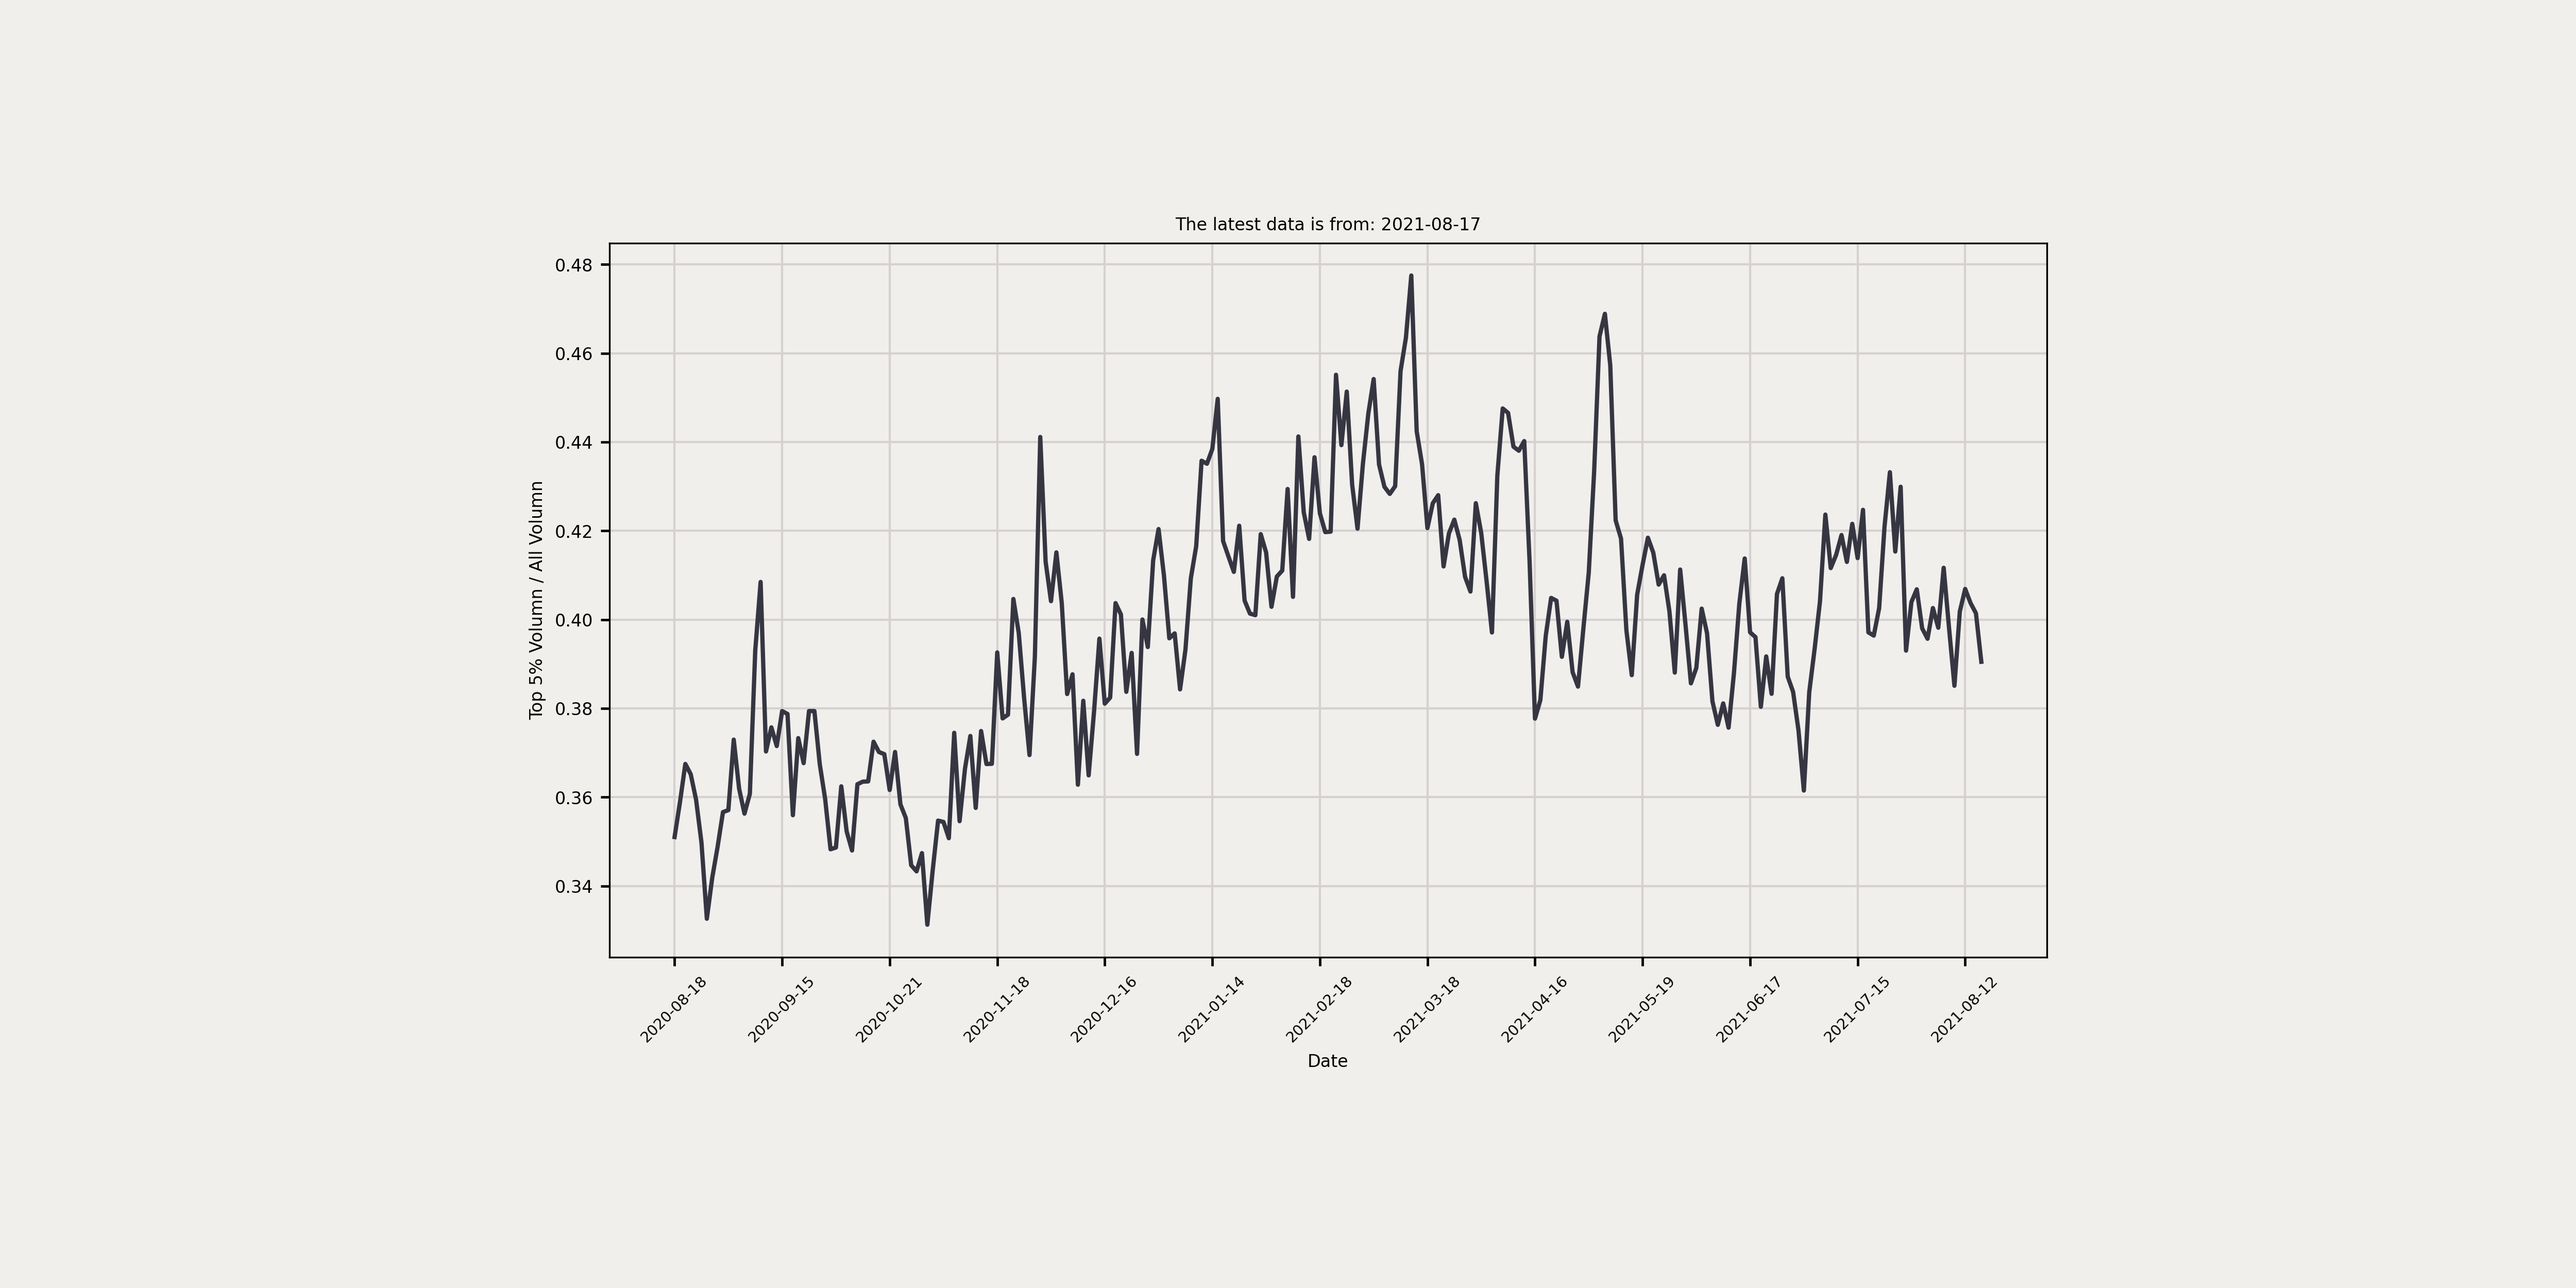
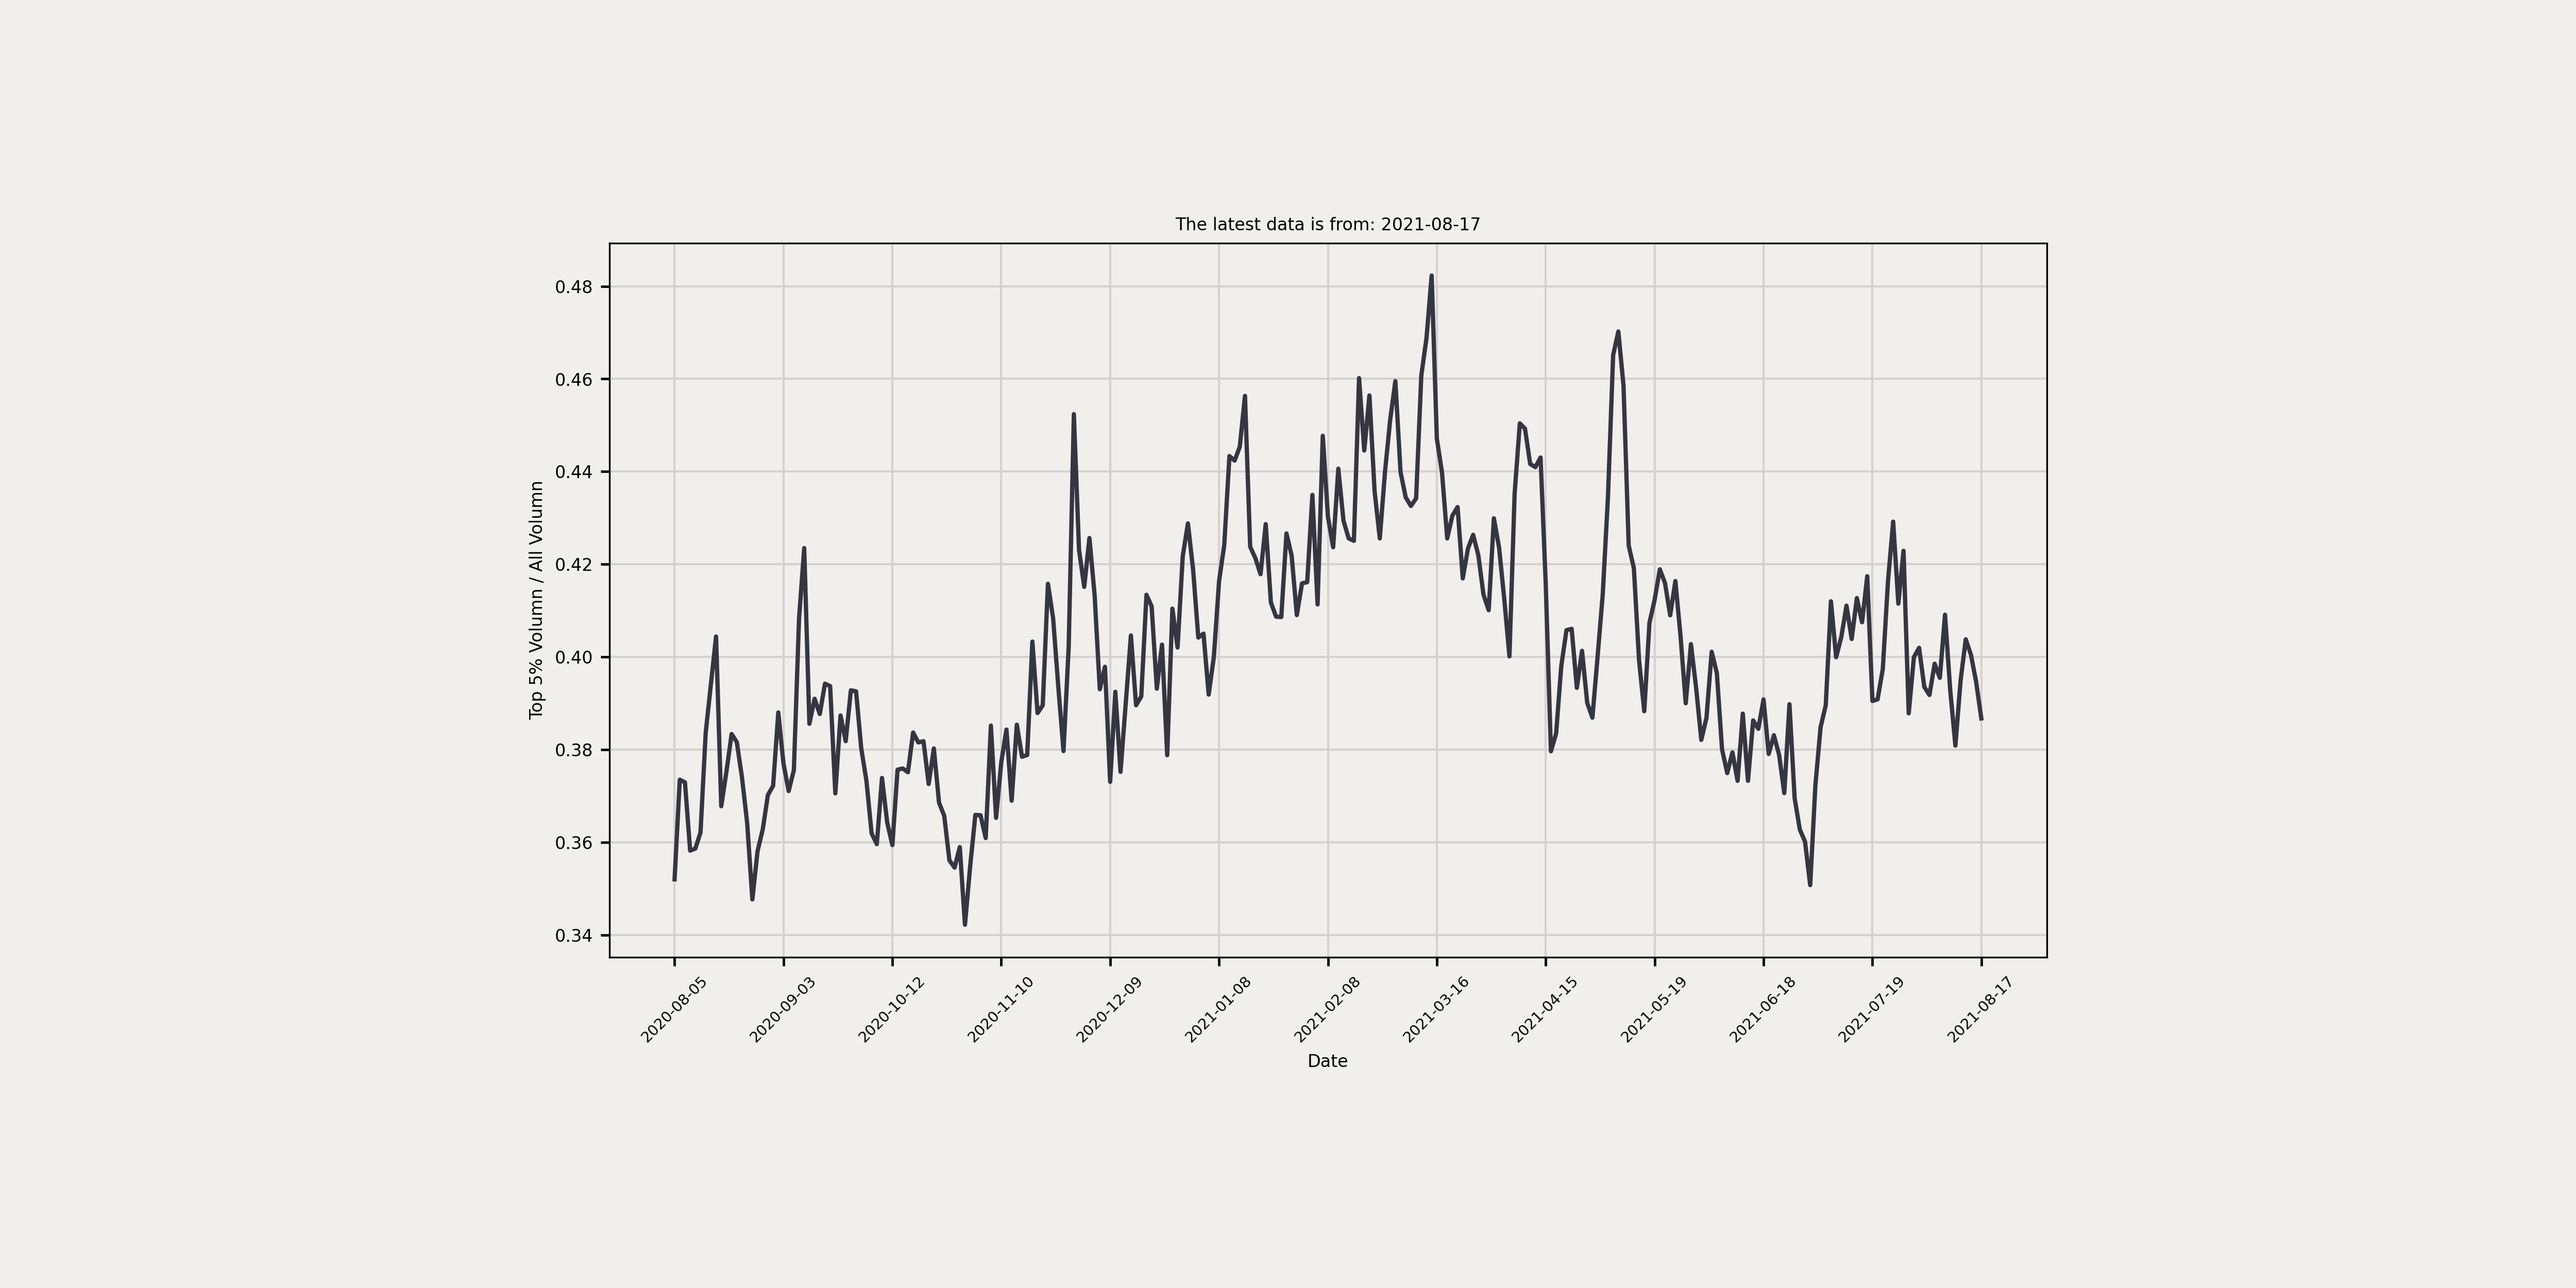
Update trade day data.

diff --git a/king_index/processor.py b/king_index/processor.py
@@ -7,7 +7,7 @@ import matplotlib.ticker as plticker
 import time
 
 t0 = time.time()
-df = pd.read_excel('data/成交量占比指标v2.xls')
+df = pd.read_excel('data/成交量占比指标.xls')
 # The number of days is the columns of the df minus 2.
 # One is id, another is name.
 num = df.shape[1]-2
